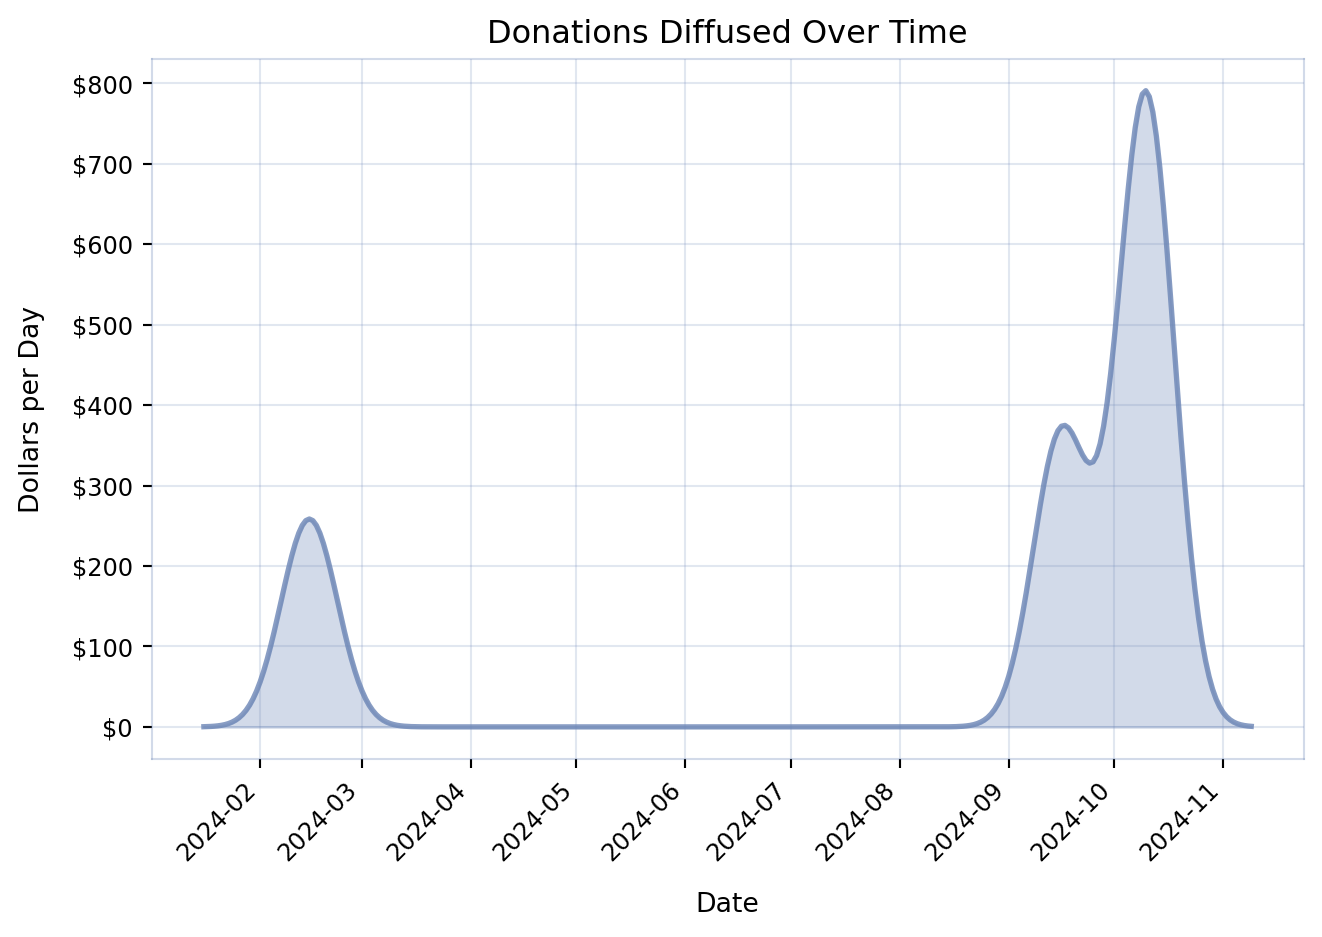
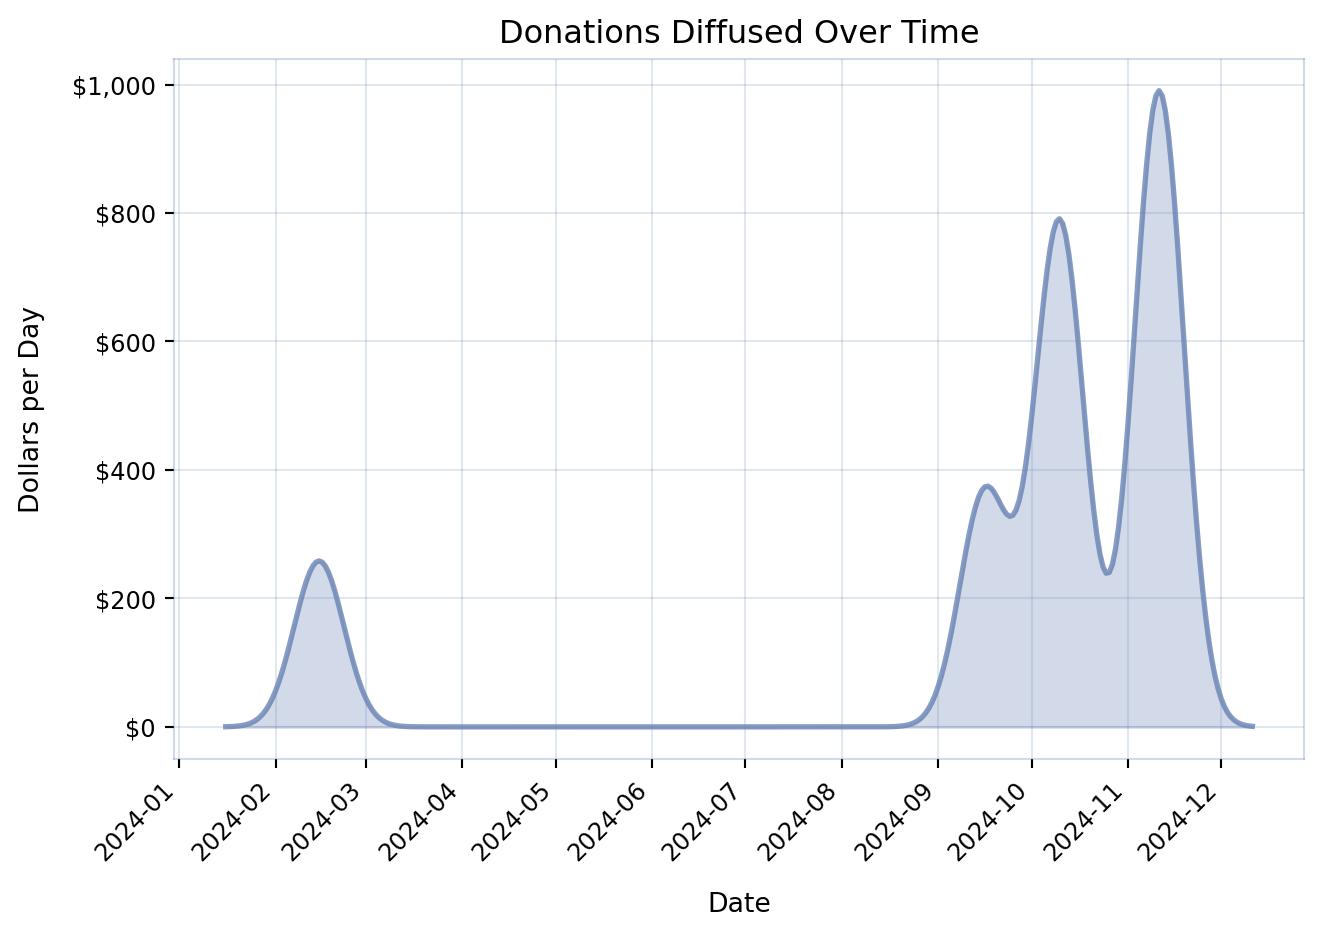
Built site for gh-pages

diff --git a/index.html b/index.html
@@ -166,26 +166,22 @@ pre > code.sourceCode > span > a:first-child::before { text-decoration: underlin
 
 
 <p>I recently took the trial pledge at Giving What We Can, and I’ve been donating to GiveWell. Here is my first year of donations.</p>
-<div id="04833461" class="cell" data-execution_count="1">
+<div id="52fcdfbd" class="cell" data-execution_count="1">
 <details class="code-fold">
 <summary>Code</summary>
 <div class="sourceCode cell-code" id="cb1"><pre class="sourceCode python code-with-copy"><code class="sourceCode python"><span id="cb1-1"><a href="#cb1-1" aria-hidden="true" tabindex="-1"></a><span class="im">from</span> graph_donations <span class="im">import</span> Donation, graph_donations</span>
 <span id="cb1-2"><a href="#cb1-2" aria-hidden="true" tabindex="-1"></a><span class="im">from</span> datetime <span class="im">import</span> date</span>
 <span id="cb1-3"><a href="#cb1-3" aria-hidden="true" tabindex="-1"></a></span>
-<span id="cb1-4"><a href="#cb1-4" aria-hidden="true" tabindex="-1"></a>sigma <span class="op">=</span> <span class="dv">8</span>  <span class="co"># controls spread of the diffusion (in days)</span></span>
-<span id="cb1-5"><a href="#cb1-5" aria-hidden="true" tabindex="-1"></a>padding_days <span class="op">=</span> <span class="dv">30</span></span>
-<span id="cb1-6"><a href="#cb1-6" aria-hidden="true" tabindex="-1"></a></span>
-<span id="cb1-7"><a href="#cb1-7" aria-hidden="true" tabindex="-1"></a><span class="co"># Sample data</span></span>
-<span id="cb1-8"><a href="#cb1-8" aria-hidden="true" tabindex="-1"></a>first_donation <span class="op">=</span> Donation(date(<span class="dv">2024</span>, <span class="dv">2</span>, <span class="dv">15</span>), <span class="fl">5181.30</span>)</span>
-<span id="cb1-9"><a href="#cb1-9" aria-hidden="true" tabindex="-1"></a>second_donation <span class="op">=</span> Donation(date(<span class="dv">2024</span>, <span class="dv">9</span>, <span class="dv">16</span>), <span class="fl">7318.04</span>)</span>
-<span id="cb1-10"><a href="#cb1-10" aria-hidden="true" tabindex="-1"></a>third_donation <span class="op">=</span> Donation(date(<span class="dv">2024</span>, <span class="dv">10</span>, <span class="dv">10</span>), <span class="fl">15774.05</span>)</span>
-<span id="cb1-11"><a href="#cb1-11" aria-hidden="true" tabindex="-1"></a>donations <span class="op">=</span> [first_donation, second_donation, third_donation]</span>
-<span id="cb1-12"><a href="#cb1-12" aria-hidden="true" tabindex="-1"></a></span>
-<span id="cb1-13"><a href="#cb1-13" aria-hidden="true" tabindex="-1"></a>diffused_amounts <span class="op">=</span> graph_donations(</span>
-<span id="cb1-14"><a href="#cb1-14" aria-hidden="true" tabindex="-1"></a>  sigma,</span>
-<span id="cb1-15"><a href="#cb1-15" aria-hidden="true" tabindex="-1"></a>  padding_days,</span>
-<span id="cb1-16"><a href="#cb1-16" aria-hidden="true" tabindex="-1"></a>  donations</span>
-<span id="cb1-17"><a href="#cb1-17" aria-hidden="true" tabindex="-1"></a>)</span></code><button title="Copy to Clipboard" class="code-copy-button"><i class="bi"></i></button></pre></div>
+<span id="cb1-4"><a href="#cb1-4" aria-hidden="true" tabindex="-1"></a>graph_donations(</span>
+<span id="cb1-5"><a href="#cb1-5" aria-hidden="true" tabindex="-1"></a>  sigma<span class="op">=</span><span class="dv">8</span>, <span class="co"># controls spread of the diffusion (in days)</span></span>
+<span id="cb1-6"><a href="#cb1-6" aria-hidden="true" tabindex="-1"></a>  padding_days<span class="op">=</span><span class="dv">30</span>,</span>
+<span id="cb1-7"><a href="#cb1-7" aria-hidden="true" tabindex="-1"></a>  donations<span class="op">=</span>[</span>
+<span id="cb1-8"><a href="#cb1-8" aria-hidden="true" tabindex="-1"></a>    Donation(date(<span class="dv">2024</span>, <span class="dv">2</span>, <span class="dv">15</span>), <span class="fl">5181.30</span>),</span>
+<span id="cb1-9"><a href="#cb1-9" aria-hidden="true" tabindex="-1"></a>    Donation(date(<span class="dv">2024</span>, <span class="dv">9</span>, <span class="dv">16</span>), <span class="fl">7318.04</span>),</span>
+<span id="cb1-10"><a href="#cb1-10" aria-hidden="true" tabindex="-1"></a>    Donation(date(<span class="dv">2024</span>, <span class="dv">10</span>, <span class="dv">10</span>), <span class="fl">15774.05</span>),</span>
+<span id="cb1-11"><a href="#cb1-11" aria-hidden="true" tabindex="-1"></a>    Donation(date(<span class="dv">2024</span>, <span class="dv">11</span>, <span class="dv">11</span>), <span class="fl">13548.43</span> <span class="op">+</span> <span class="fl">6305.20</span>),</span>
+<span id="cb1-12"><a href="#cb1-12" aria-hidden="true" tabindex="-1"></a>  ]</span>
+<span id="cb1-13"><a href="#cb1-13" aria-hidden="true" tabindex="-1"></a>)<span class="op">;</span></span></code><button title="Copy to Clipboard" class="code-copy-button"><i class="bi"></i></button></pre></div>
 </details>
 <div class="cell-output cell-output-display">
 <div>
